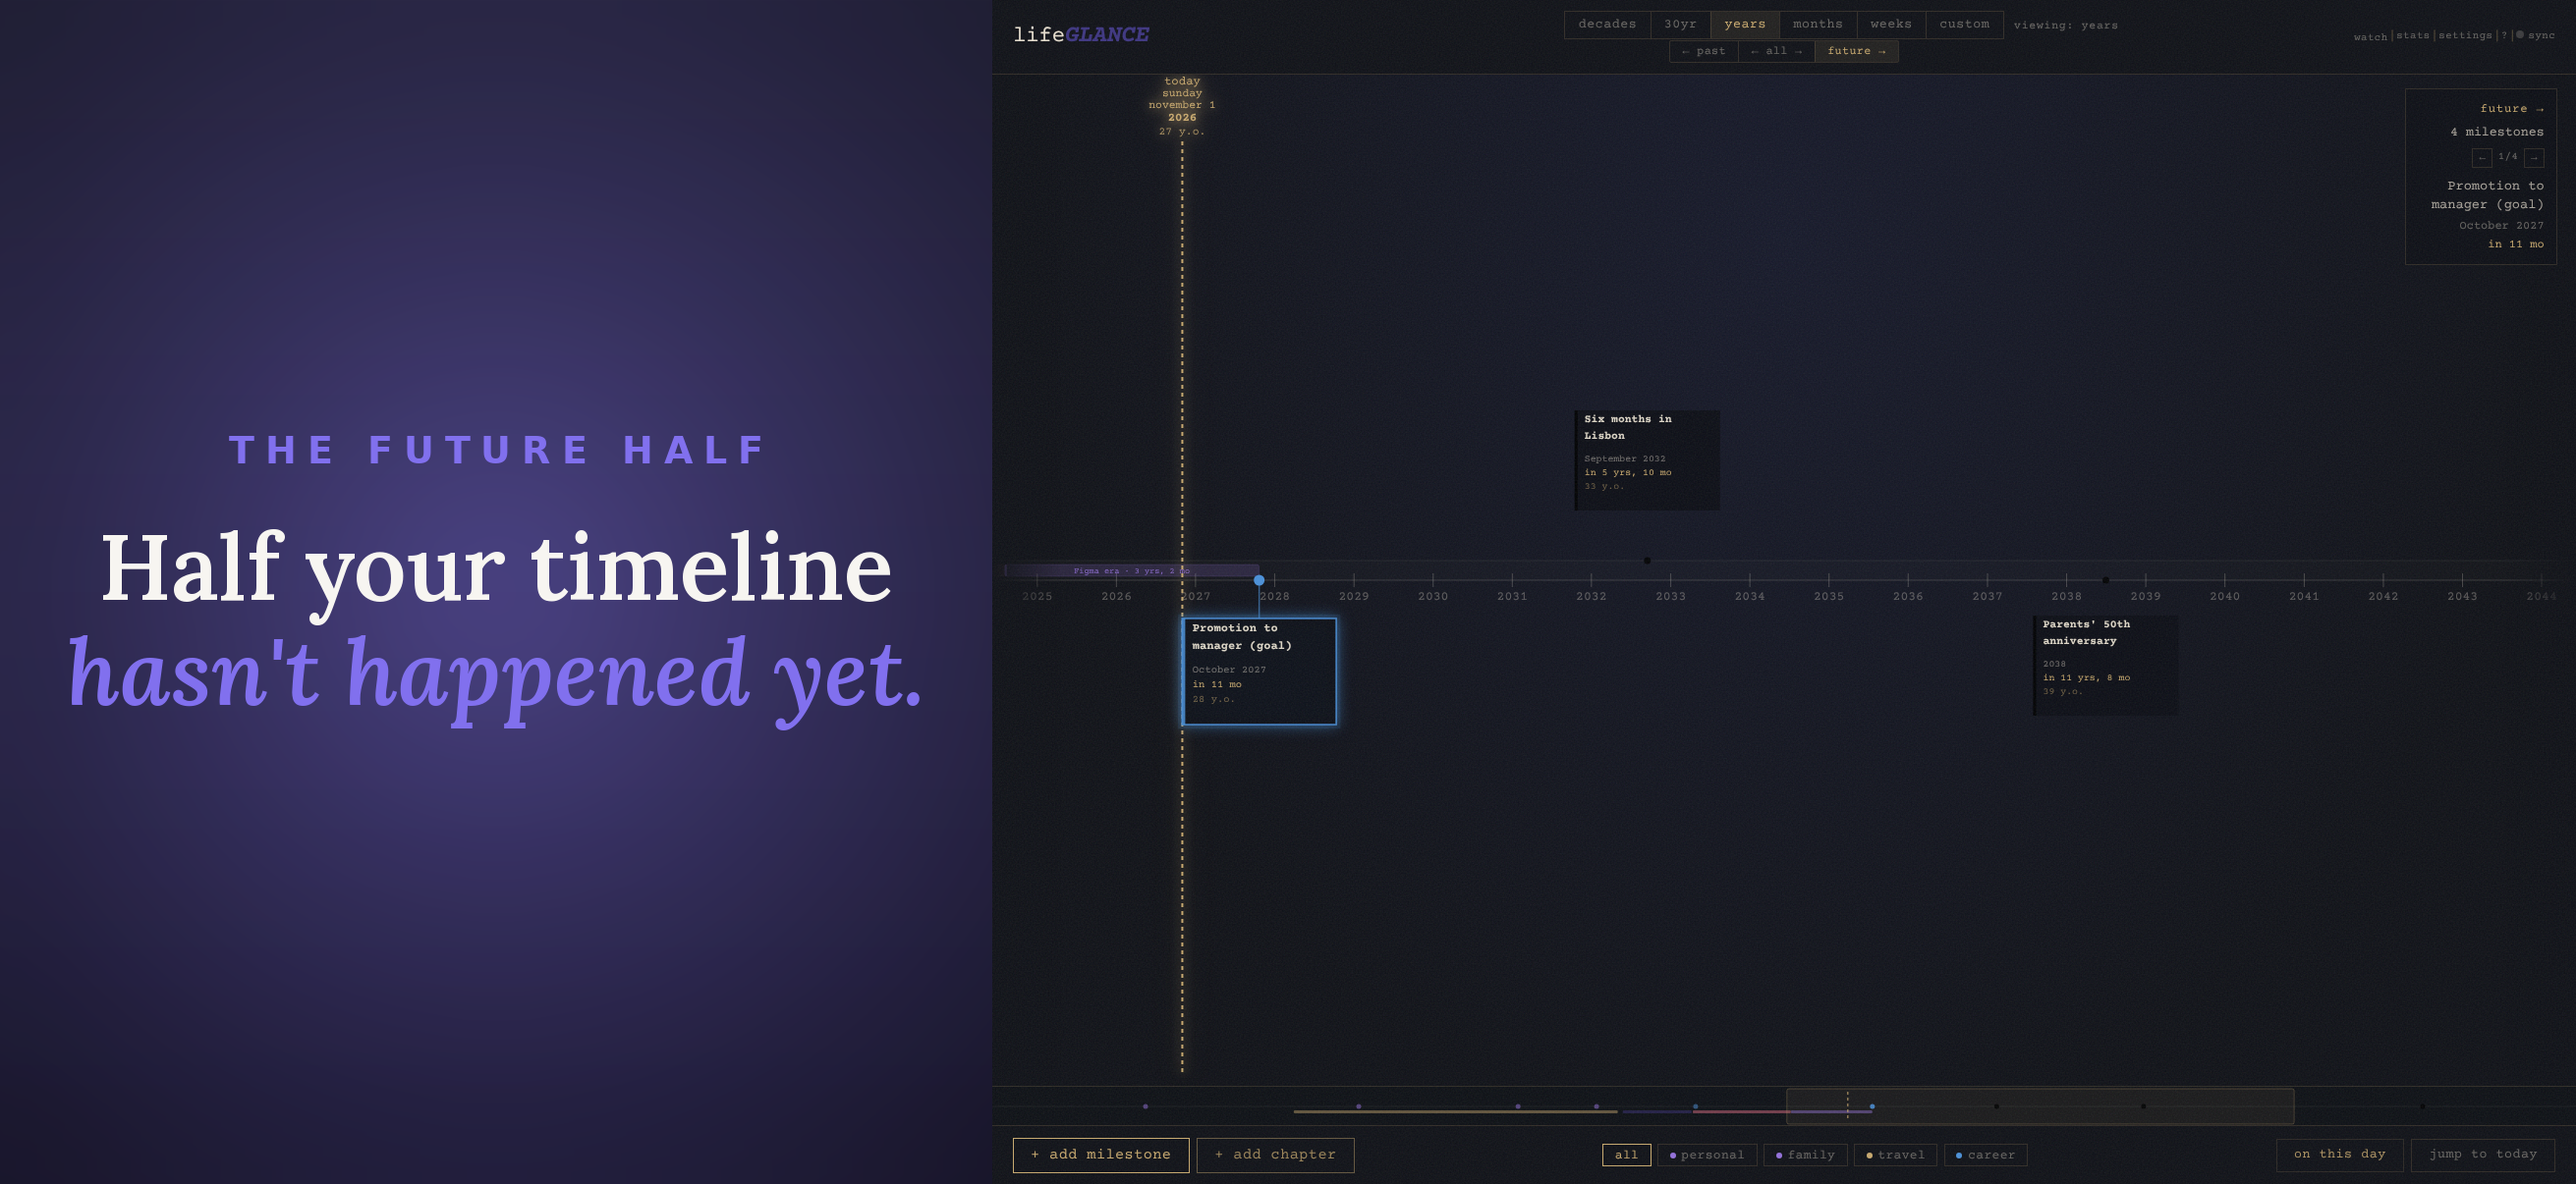
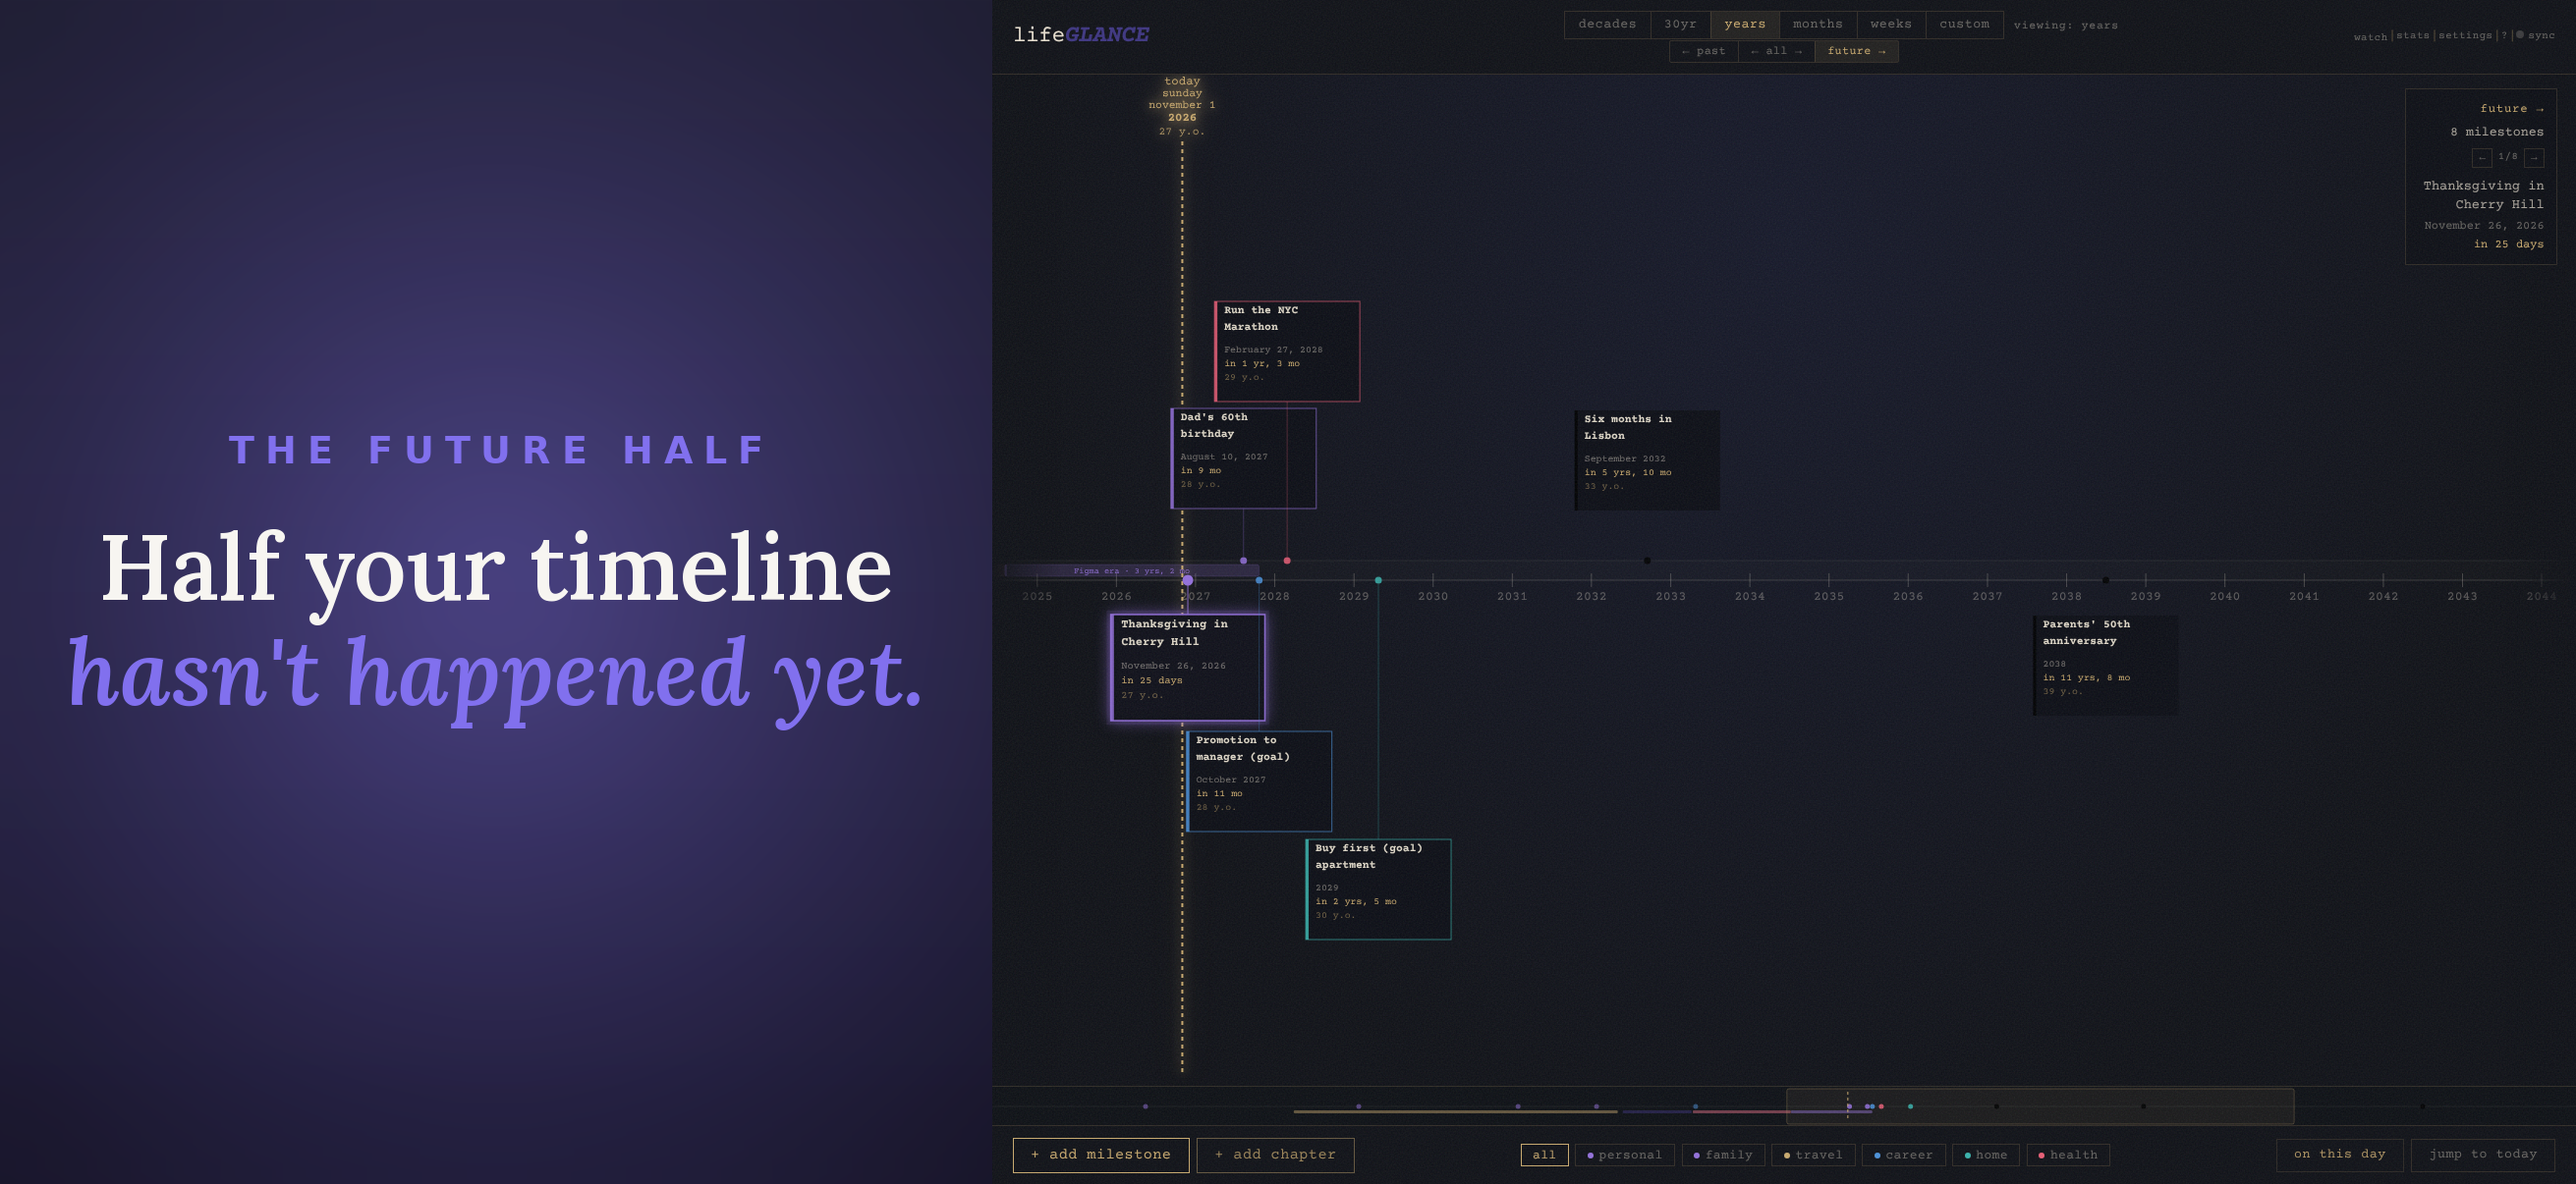
Measure shot 2's crop; fill out shot 3's future
Shot 2's band was cut at fixed fractions of the pane, which sliced cards in
half at the fades — that reads as damage rather than as a crop — and would go
stale the moment the lane assignment shifted. The boundaries are now measured
from the render: the app's header and footer bars are excluded, and the first
and last rows carrying ink bound the band, so every card is whole and the
fades land on empty space.

Shot 3 had three cards across twenty years of bare axis, which looks barren
whatever the caption says. It gains four near-term entries from the same
persona covering 2026-2029, so the eye has somewhere to travel between today
and the far goals.

The cost of the second change is that this shot's "future -> N milestones"
counter now reads higher than the other frames'. That trade was made the other
way last time and is worth revisiting: the counter is only visible to someone
comparing two screenshots side by side, where an empty frame is visible to
everyone.

Both changes came out of reading a pair of pasted frames as feedback when they
were meant for somewhere else. They stand on their own merits, and the second
one is a reversal of an earlier decision rather than a fix, so it may well be
reverted.

Claude-Session: https://claude.ai/code/session_01T5Xvg6UVv4Aoz2NEJkswDc

diff --git a/scripts/compose-apple-frames.py b/scripts/compose-apple-frames.py
@@ -180,7 +180,7 @@ SHOTS = [
     # the ribbons are a thin line with a third of the pane empty beneath them
     # and the cards dominating a frame whose caption is about chapters.
     dict(kind="iphone", out="iphone-dynamic-island/02-chapters.png", panes=["iphone/02a"],
-         band=(0.28, 0.76, 85),
+         band=80,
          eyebrow="CHAPTERS", l1="The eras you lived,", l2="drawn to scale."),
     dict(kind="iphone", out="iphone-dynamic-island/03-future.png", panes=["iphone/03a"],
          eyebrow="THE FUTURE HALF", l1="Half your timeline", l2="hasn't happened yet."),
@@ -199,21 +199,38 @@ SHOTS = [
 ]
 
 
-def band_crop(pane, y0, y1, fade):
-    """Crop a pane to a horizontal band and feather the two cut edges.
+def band_crop(pane, fade, head=0.07, foot=0.86, pad=26):
+    """Crop a pane to the rows that actually carry content, and feather the two
+    cut edges.
 
-    Full width is kept deliberately: every other frame in the set is a
-    full-width pane, and fading the sides as well would make this one read as
-    a different treatment rather than the same app window cropped. Only the
-    top and bottom cuts are feathered, so the band dissolves into the
-    background instead of ending on a hard line.
+    The boundaries are measured, not fixed fractions. Fixed fractions sliced
+    cards in half at the fade, which reads as damage rather than as a crop, and
+    they go stale the moment the lane assignment shifts. `head` and `foot`
+    exclude the app's own header and footer bars, which otherwise set the
+    extent to the whole pane; between them the first and last rows carrying ink
+    bound the band, so every card is whole and the fades land on empty space.
+
+    Full width is kept deliberately and the sides are not faded: every other
+    frame in the set is a full-width pane, and feathering the sides would make
+    this one read as a different treatment rather than the same app window
+    cropped.
     """
-    h = pane.height
-    band = pane.crop((0, round(y0 * h), pane.width, round(y1 * h)))
+    import numpy as np
+    a = np.asarray(pane.convert("L")).astype(float)
+    lo, hi = round(head * pane.height), round(foot * pane.height)
+    rows = (a[lo:hi] > 55).mean(axis=1)
+    ink = np.where(rows > 0.004)[0]
+    if len(ink) == 0:
+        return pane, Image.new("L", pane.size, 255)
+    y0 = max(0, lo + ink[0] - pad)
+    y1 = min(pane.height, lo + ink[-1] + pad)
+
+    band = pane.crop((0, y0, pane.width, y1))
     mask = Image.new("L", band.size, 255)
     px = mask.load()
-    for y in range(min(fade, band.height)):
-        v = round(255 * y / fade)
+    span = min(fade, band.height // 2)
+    for y in range(span):
+        v = round(255 * y / span)
         for x in range(band.width):
             px[x, y] = v
             px[x, band.height - 1 - y] = v
@@ -253,8 +270,7 @@ def compose_iphone(shot, pane_dir, out_path):
         draw_bullets(canvas, bullets, top, top + bul_h,
                      size=bul_size, gap=bul_gap, cx=cx)
     if shot.get("band"):
-        y0, y1, fade = shot["band"]
-        band, mask = band_crop(pane, y0, y1, fade)
+        band, mask = band_crop(pane, shot["band"])
         canvas.paste(band, (CAPTION_COL, (IPHONE_H - band.height) // 2), mask)
     else:
         canvas.paste(pane, (CAPTION_COL, 0))
